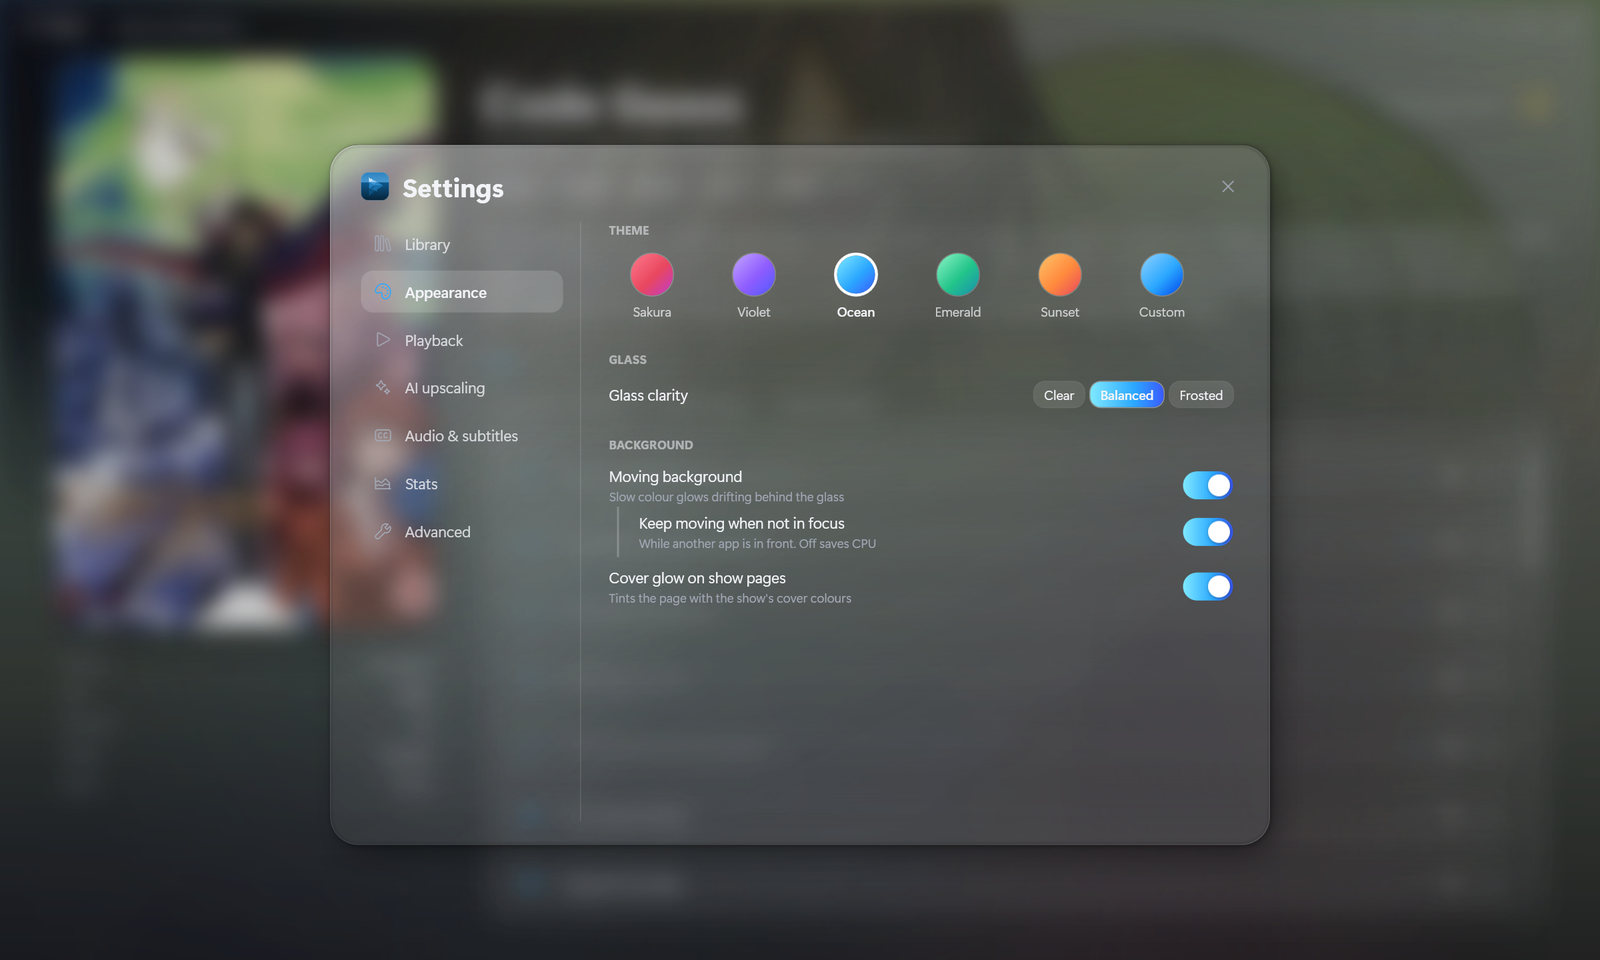
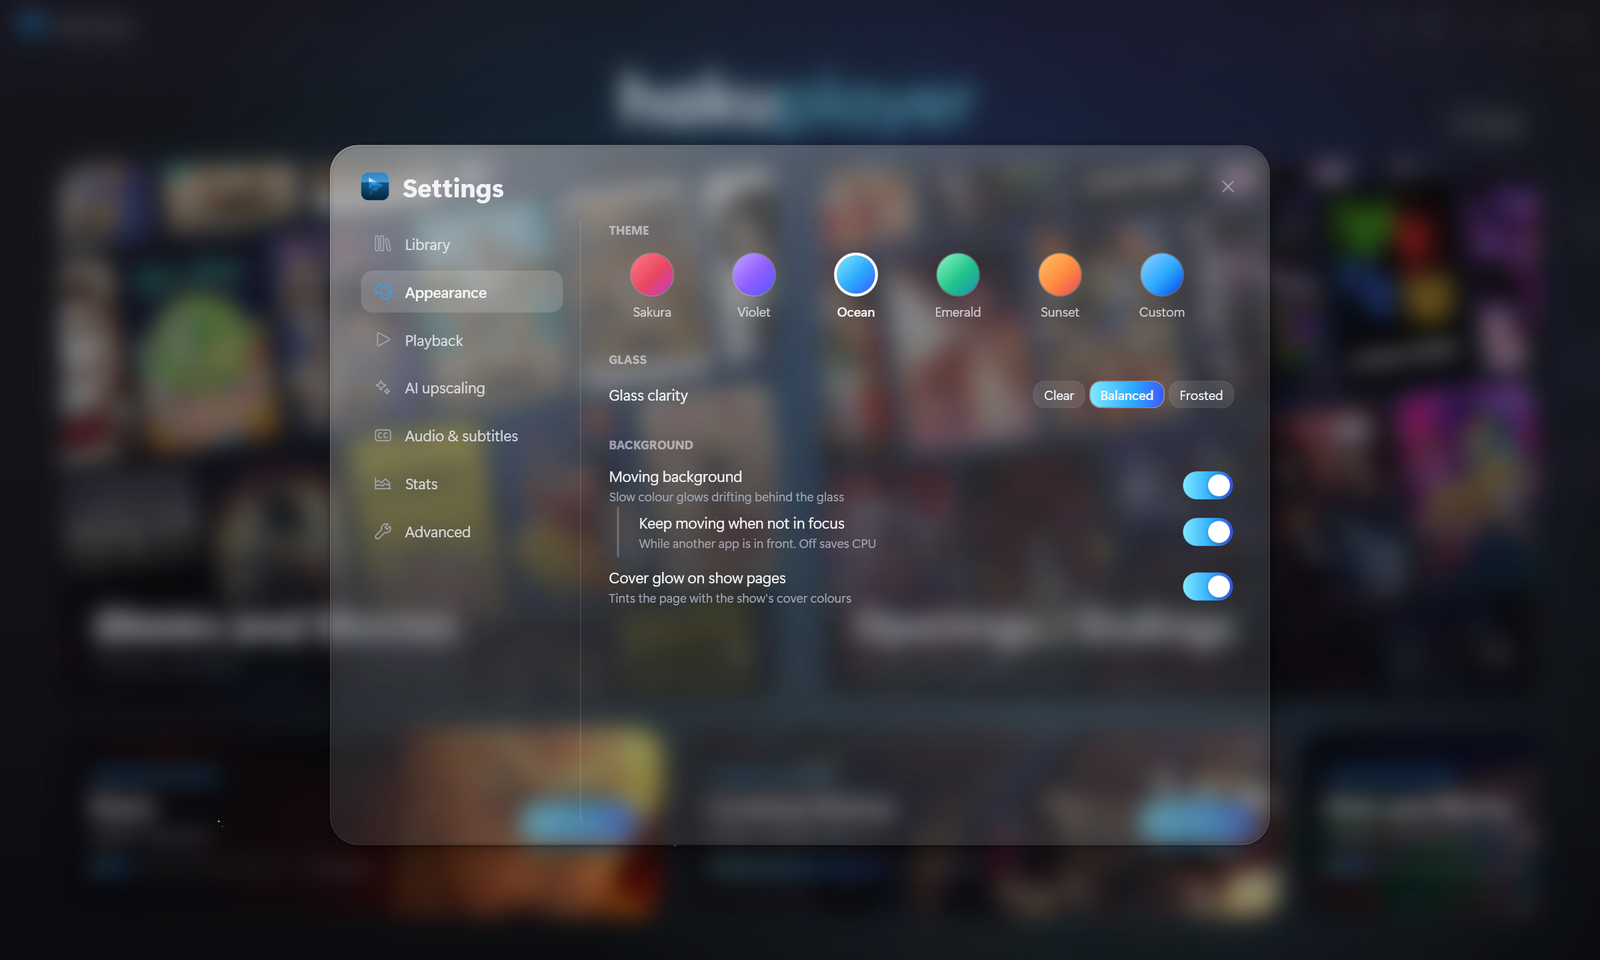
README: core features up front with large visuals, smaller ones in a compact grid; new shows (Cowboy Bebop, Pluto, One Punch Man), controls stay up in the player clips

diff --git a/README.md b/README.md
@@ -18,17 +18,32 @@ and real-time AI upscaling to 4K on NVIDIA RTX cards.
 
 ---
 
-## Highlights
+## Core features
 
-- **Real-time AI upscaling** (NVIDIA RTX). Anime and cartoons are redrawn at twice the size with [AnimeJaNai](https://github.com/the-database/mpv-upscale-2x_animejanai) models on TensorRT, live and all on the GPU, a second ahead of playback. Live-action TV shows and movies use NVIDIA's RTX Video Super Resolution instead. Subtitles and controls are drawn afterwards, so they stay sharp.
-- **Liquid glass everywhere.** The window uses Windows 11's acrylic, with slowly drifting colour glows behind it. In the player, a GPU shader blurs the *live video* under the controls every frame, Apple-style.
-- **Made for anime.** Japanese audio and full English subtitles by default (it skips "Signs & Songs" tracks). Official episode titles, and openings and endings as their own library, named the [AnimeThemes](https://animethemes.moe) way.
-- **Skip opening, skip ending, Up next.** Timings come from the file's chapters or from [AniSkip](https://aniskip.com) and [TheIntroDB](https://theintrodb.org). Failing that, Haku Player finds them itself by comparing the music of two episodes.
-- **Remembers what you've watched.** Watched ticks, progress bars, a *Continue watching* row and library stats.
-- **Your files, untouched.** It plays the originals at full quality through mpv (GPU decoding, no re-encoding) and never renames anything.
-- **Drop to play.** Drag a video or a folder onto the window, or onto `HakuPlayer.exe`, and it plays straight away. With the app already open, it plays in that window.
+### Real-time AI upscaling
 
-## Tour
+<img src="docs/images/ai-compare.png" alt="Cowboy Bebop, Rick and Morty and Band of Brothers: normal enlargement against AI upscaling, zoomed in" width="100%"/>
+
+1080p on a 4K screen, zoomed in: the normal enlargement on the left, Haku Player on the right. On an NVIDIA RTX card, anime (Cowboy Bebop) and cartoons (Rick and Morty) are redrawn at twice the size by [AnimeJaNai](https://github.com/the-database/mpv-upscale-2x_animejanai) on TensorRT, live, all on the GPU, a second ahead of playback. Live action (Band of Brothers) uses NVIDIA's RTX Video, which sharpens real footage without the painted look an anime model gives it. Subtitles and controls are drawn afterwards, so they stay sharp.
+
+<table>
+  <tr>
+    <td width="50%"><img src="docs/images/ai-start.gif" alt="AI upscaling turned off and on again on Pluto"/></td>
+    <td width="50%"><img src="docs/images/ai-settings.png" alt="AI upscaling settings"/></td>
+  </tr>
+  <tr>
+    <td><b>One button</b> · the sparkle button (or <code>Ctrl+U</code>) turns it on or off. A loading panel shows while the AI fills a second of frames, then it plays; the badge shows what it's upscaling to. <i>(Pluto)</i></td>
+    <td><b>Its own settings page</b> · Auto, Fast, Balanced or Quality, a sharp or soft look, <i>Detect best for this PC</i>, and what TV shows and movies use. It shows each tier's speed on your card.</td>
+  </tr>
+</table>
+
+### A liquid-glass player
+
+<img src="docs/images/glass.gif" alt="Liquid glass controls over One Punch Man" width="100%"/>
+
+The controls float over the video in two glass pills. A GPU shader blurs, brightens and bends the *moving picture* underneath them every frame, Apple-style, and they fade away after a few seconds. The window itself uses Windows 11's acrylic, with slowly drifting colour glows. <i>(One Punch Man)</i>
+
+### Anime, TV shows and movies in one library
 
 <table>
   <tr>
@@ -36,33 +51,12 @@ and real-time AI upscaling to 4K on NVIDIA RTX cards.
     <td width="50%"><img src="docs/images/show.png" alt="Rick and Morty show page"/></td>
   </tr>
   <tr>
-    <td><b>Library</b> · covers, search, favourites, filters by genre or kind, sorting. Anime, TV shows and movies live together; openings and endings get their own section, with a <i>Random</i> shuffle.</td>
-    <td><b>Show pages</b> · details, banner and official episode names, fetched automatically. Watched ticks, progress bars, seasons, "What's missing" and "Wrong show info?" to fix a bad match.</td>
+    <td><b>Library</b> · covers, search, favourites, filters by genre or kind, sorting. Badly named folders still find the right show. Openings and endings get a library of their own, named the <a href="https://animethemes.moe">AnimeThemes</a> way.</td>
+    <td><b>Show pages</b> · details, banner and official episode names, fetched automatically. Seasons are merged, even from separate folders. Watched ticks, "What's missing" and "Wrong show info?".</td>
   </tr>
 </table>
 
-### AI upscaling
-
-<img src="docs/images/ai-compare.png" alt="Code Geass, Rick and Morty and Band of Brothers: normal enlargement against AI upscaling, zoomed in" width="100%"/>
-
-1080p on a 4K screen, zoomed in: the normal enlargement on the left, Haku Player on the right. Anime (Code Geass) and cartoons (Rick and Morty) use AnimeJaNai, so line art comes out crisp instead of soft. Live action (Band of Brothers) uses RTX Video, which sharpens real footage without the painted look an anime model gives it.
-
-<table>
-  <tr>
-    <td width="50%"><img src="docs/images/ai-start.gif" alt="AI upscaling starting"/></td>
-    <td width="50%"><img src="docs/images/ai-settings.png" alt="AI upscaling settings"/></td>
-  </tr>
-  <tr>
-    <td><b>One button</b> · the sparkle button (or <code>Ctrl+U</code>) turns it on or off. It pauses for a moment while the AI fills a second of frames ahead, then plays; the badge shows what it's upscaling to.</td>
-    <td><b>Its own settings page</b> · Auto, Fast, Balanced or Quality, a sharp or soft look, <i>Detect best for this PC</i>, and what TV shows and movies use. It shows each tier's speed on your card.</td>
-  </tr>
-</table>
-
-### The player
-
-<img src="docs/images/glass.gif" alt="Liquid glass controls fading over Band of Brothers" width="100%"/>
-
-The controls float over the video in two glass pills. They blur, brighten and bend the moving picture underneath, and fade away after a couple of seconds. Here on Band of Brothers, upscaled by RTX Video.
+### Skip opening and Up next
 
 <table>
   <tr>
@@ -70,31 +64,39 @@ The controls float over the video in two glass pills. They blur, brighten and be
     <td width="50%"><img src="docs/images/upnext.gif" alt="Up next countdown on Death Note"/></td>
   </tr>
   <tr>
-    <td><b>Skip opening / ending</b> · appears for the first 8 seconds, and again whenever the controls are up. Openings, endings and chapters are marked on the timeline.</td>
-    <td><b>Up next</b> · when the ending starts, the next episode plays after a 10-second countdown. <i>Play now</i> or <i>Cancel</i>.</td>
-  </tr>
-  <tr>
-    <td><img src="docs/images/menu.gif" alt="Player quick settings on Rick and Morty"/></td>
-    <td><img src="docs/images/player.png" alt="Player controls on South Park"/></td>
-  </tr>
-  <tr>
-    <td><b>Quick settings</b> · audio and subtitle tracks, your own subtitle files with timing fixes, speed, AI upscaling tier and look, and per-kind language defaults.</td>
-    <td><b>The bar</b> · the timeline shows how far ahead the file is loaded (blue) and the frames the AI has ready (green), with exact-frame previews on hover. The badge shows the resolution and codec, and what the AI is upscaling to.</td>
+    <td><b>Skip opening / ending</b> · timings from the file's chapters, <a href="https://aniskip.com">AniSkip</a> or <a href="https://theintrodb.org">TheIntroDB</a>; failing that, Haku Player compares the music of two episodes to find them. <i>(Fullmetal Alchemist: Brotherhood)</i></td>
+    <td><b>Up next</b> · when the ending starts, the next episode plays after a 10-second countdown, AI and subtitles carrying on. <i>Play now</i> or <i>Cancel</i>. <i>(Death Note)</i></td>
   </tr>
 </table>
 
-### Settings and stats
+### Made for anime, good with everything
+
+- Japanese audio and full English subtitles by default for anime (it skips "Signs & Songs" tracks); English for TV and movies. Separate defaults for each.
+- Remembers what you've watched: watched ticks, progress bars and the *Continue watching* row on the home screen.
+- Plays your original files at full quality through mpv (GPU decoding, no re-encoding) and never renames anything.
+
+## More features
 
 <table>
   <tr>
-    <td width="50%"><img src="docs/images/settings.png" alt="Appearance settings"/></td>
-    <td width="50%"><img src="docs/images/stats.png" alt="Library stats"/></td>
+    <td width="25%"><img src="docs/images/menu.gif" alt="Player quick settings on Rick and Morty"/></td>
+    <td width="25%"><img src="docs/images/player.png" alt="Player controls on South Park"/></td>
+    <td width="25%"><img src="docs/images/settings.png" alt="Appearance settings"/></td>
+    <td width="25%"><img src="docs/images/stats.png" alt="Library stats"/></td>
   </tr>
   <tr>
-    <td><b>Make it yours</b> · five accent themes or a colour of your own (the logo follows it), glass clarity and background motion. Separate language defaults for anime and for TV and movies, several library folders, and Discord status.</td>
-    <td><b>Stats</b> · library size and running time, time watched, a 14-day chart and your most-watched shows.</td>
+    <td><sub><b>Quick settings</b> · tracks, your own subtitle files, speed, AI tier and look.</sub></td>
+    <td><sub><b>The bar</b> · loaded (blue) and AI-ready (green) on the timeline, frame previews on hover.</sub></td>
+    <td><sub><b>Themes</b> · five accents or your own colour, glass clarity, motion.</sub></td>
+    <td><sub><b>Stats</b> · library size, running time, time watched, a 14-day chart.</sub></td>
   </tr>
 </table>
+
+- **Drop to play:** drag a video or folder onto the window or onto `HakuPlayer.exe`.
+- **Pop-out player:** a small always-on-top window in the corner, shaped to the video.
+- **Discord status:** "Watching" with the show and time left (optional).
+- **Timeline previews:** exact frames, decoded on the GPU and cached.
+- **Fill to screen** for near-16:9 screens, exact seeks in under a fifth of a second, and a debug panel.
 
 ## All features
 
@@ -142,7 +144,7 @@ The controls float over the video in two glass pills. They blur, brighten and be
 - An episode counts as watched once you reach its ending (or 90% of the way in). Tick or untick by hand, per episode, season or show.
 - *Continue watching* row on the home screen: every show you're part-way through, or onto the next episode of. Close a card to hide it until you next watch that show.
 - Stats: library size and running time, time watched (total and this week), a 14-day chart and most-watched shows.
-- Discord status, *"Watching Haku Player · Code Geass · S01E05"* with time left. Optional, and needs your own Discord application ID.
+- Discord status, *"Watching Haku Player · Cowboy Bebop · S01E05"* with time left. Optional, and needs your own Discord application ID.
 </details>
 
 ## Requirements
@@ -180,12 +182,12 @@ Then open **Settings → Library → Add library** and choose your folders.
 ```text
 Anime library\                 ← marked "Anime"
 ├─ Anime Shows\
-│  └─ Code Geass\
+│  └─ Cowboy Bebop\
 │     ├─ cover.png              (optional; downloaded if missing)
-│     └─ Season 1\S01E01 - The Day a New Demon Was Born.mkv
+│     └─ Season 1\S01E01 - Asteroid Blues.mkv
 └─ Anime Openings\
-   └─ Code Geass\
-      └─ CodeGeass-OP1.webm     (AnimeThemes names: Show-OP1, Show-ED2…)
+   └─ Cowboy Bebop\
+      └─ CowboyBebop-OP1.webm     (AnimeThemes names: Show-OP1, Show-ED2…)
 
 TV Shows\                      ← marked "TV shows"
 ├─ The Sopranos (1999)\S01E01 - Pilot.mkv
